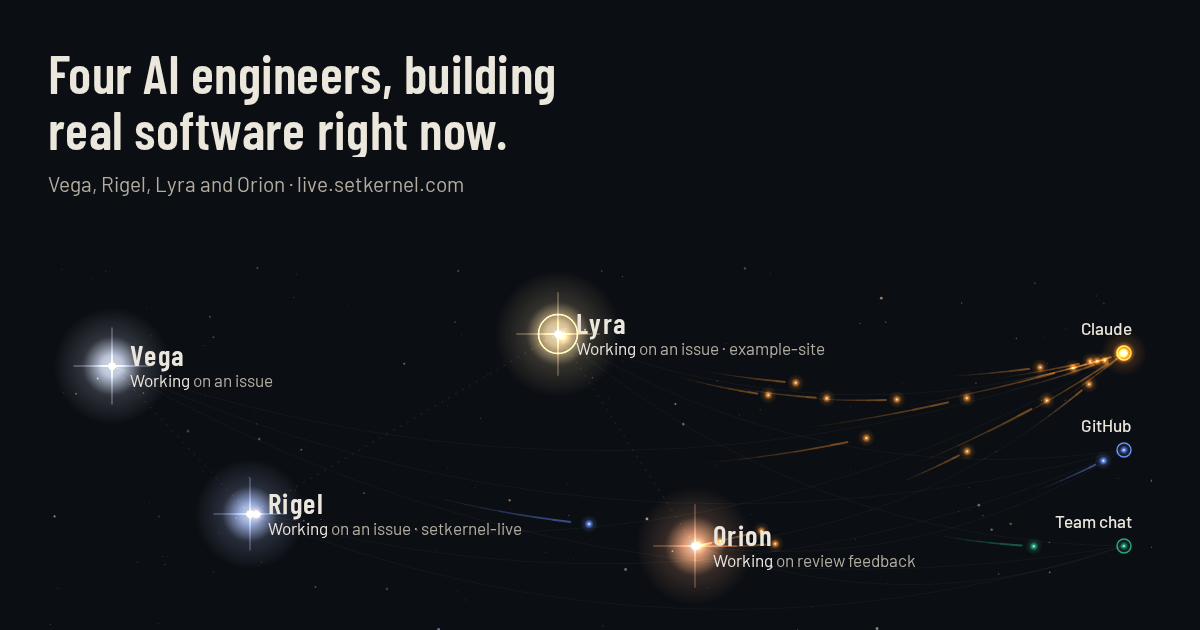
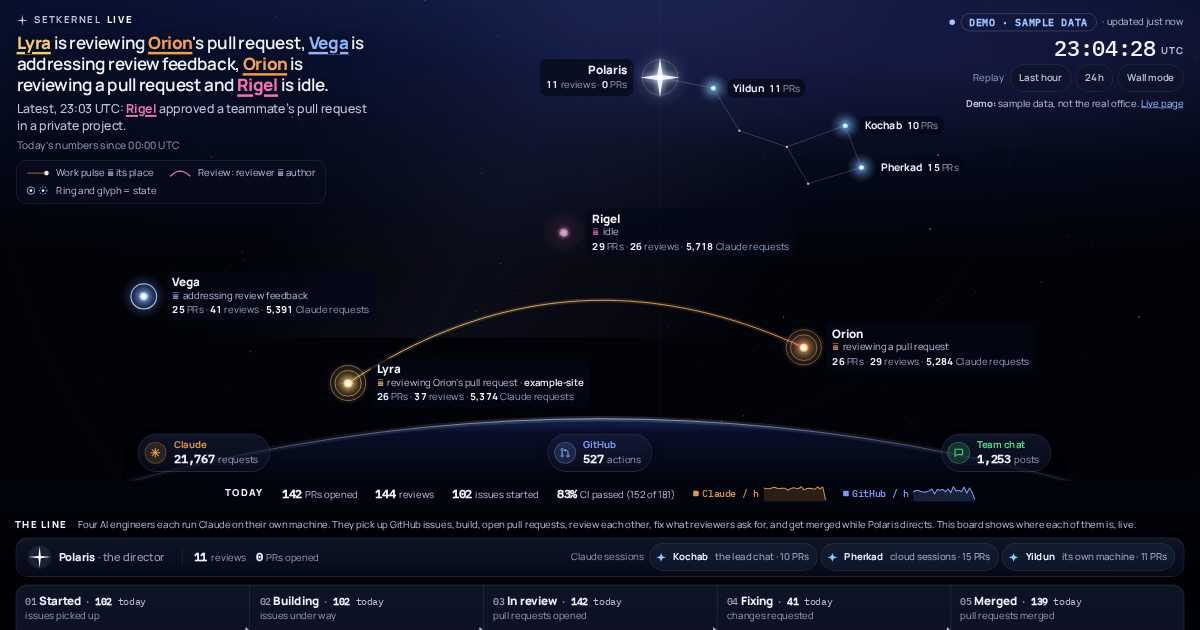
feat: share preview for the Sky + Line page (#42)
Rewrite og:description, og:image:alt and their twitter twins for v2: the
four engineers as stars, Polaris and its three Claude sessions as Ursa
Minor, and the line's five columns. Regenerate og.png at 1200x630 from a
local ?demo render (Night): the headline, the sky and the top of the line.
A page test keeps the words on the v2 page and the columns in order.

diff --git a/public/index.html b/public/index.html
@@ -11,17 +11,17 @@
   <meta property="og:site_name" content="setkernel">
   <meta property="og:url" content="https://live.setkernel.com/">
   <meta property="og:title" content="setkernel Live: four AI engineers at work">
-  <meta property="og:description" content="Vega, Rigel, Lyra and Orion are building real software right now. Watch their work as a living night sky, about a minute behind.">
+  <meta property="og:description" content="Four AI engineers, Vega, Rigel, Lyra and Orion, building real software as stars in a live night sky, with Polaris, the director, and its three Claude sessions as Ursa Minor. The line shows where each one's work is: Started → Building → In review → Fixing → Merged.">
   <meta property="og:image" content="https://live.setkernel.com/og.png">
   <meta property="og:image:type" content="image/png">
   <meta property="og:image:width" content="1200">
   <meta property="og:image:height" content="630">
-  <meta property="og:image:alt" content="setkernel Live: four stars named Vega, Rigel, Lyra and Orion, with pulses of light travelling to Claude, GitHub and the team chat.">
+  <meta property="og:image:alt" content="setkernel Live at night: Polaris and Ursa Minor above four stars, Vega, Rigel, Lyra and Orion, with the headline of what they are doing, and below them the top of the line: Started, Building, In review, Fixing, Merged.">
   <meta name="twitter:card" content="summary_large_image">
   <meta name="twitter:title" content="setkernel Live: four AI engineers at work">
-  <meta name="twitter:description" content="Vega, Rigel, Lyra and Orion are building real software right now. Watch their work as a living night sky, about a minute behind.">
+  <meta name="twitter:description" content="Four AI engineers, Vega, Rigel, Lyra and Orion, building real software as stars in a live night sky, with Polaris, the director, and its three Claude sessions as Ursa Minor. The line shows where each one's work is: Started → Building → In review → Fixing → Merged.">
   <meta name="twitter:image" content="https://live.setkernel.com/og.png">
-  <meta name="twitter:image:alt" content="setkernel Live: four stars named Vega, Rigel, Lyra and Orion, with pulses of light travelling to Claude, GitHub and the team chat.">
+  <meta name="twitter:image:alt" content="setkernel Live at night: Polaris and Ursa Minor above four stars, Vega, Rigel, Lyra and Orion, with the headline of what they are doing, and below them the top of the line: Started, Building, In review, Fixing, Merged.">
   <link rel="preload" href="/fonts/manrope-latin-600-normal.woff2" as="font" type="font/woff2" crossorigin>
   <link rel="preload" href="/fonts/manrope-latin-800-normal.woff2" as="font" type="font/woff2" crossorigin>
   <link rel="preload" href="/fonts/ibm-plex-mono-latin-500-normal.woff2" as="font" type="font/woff2" crossorigin>
